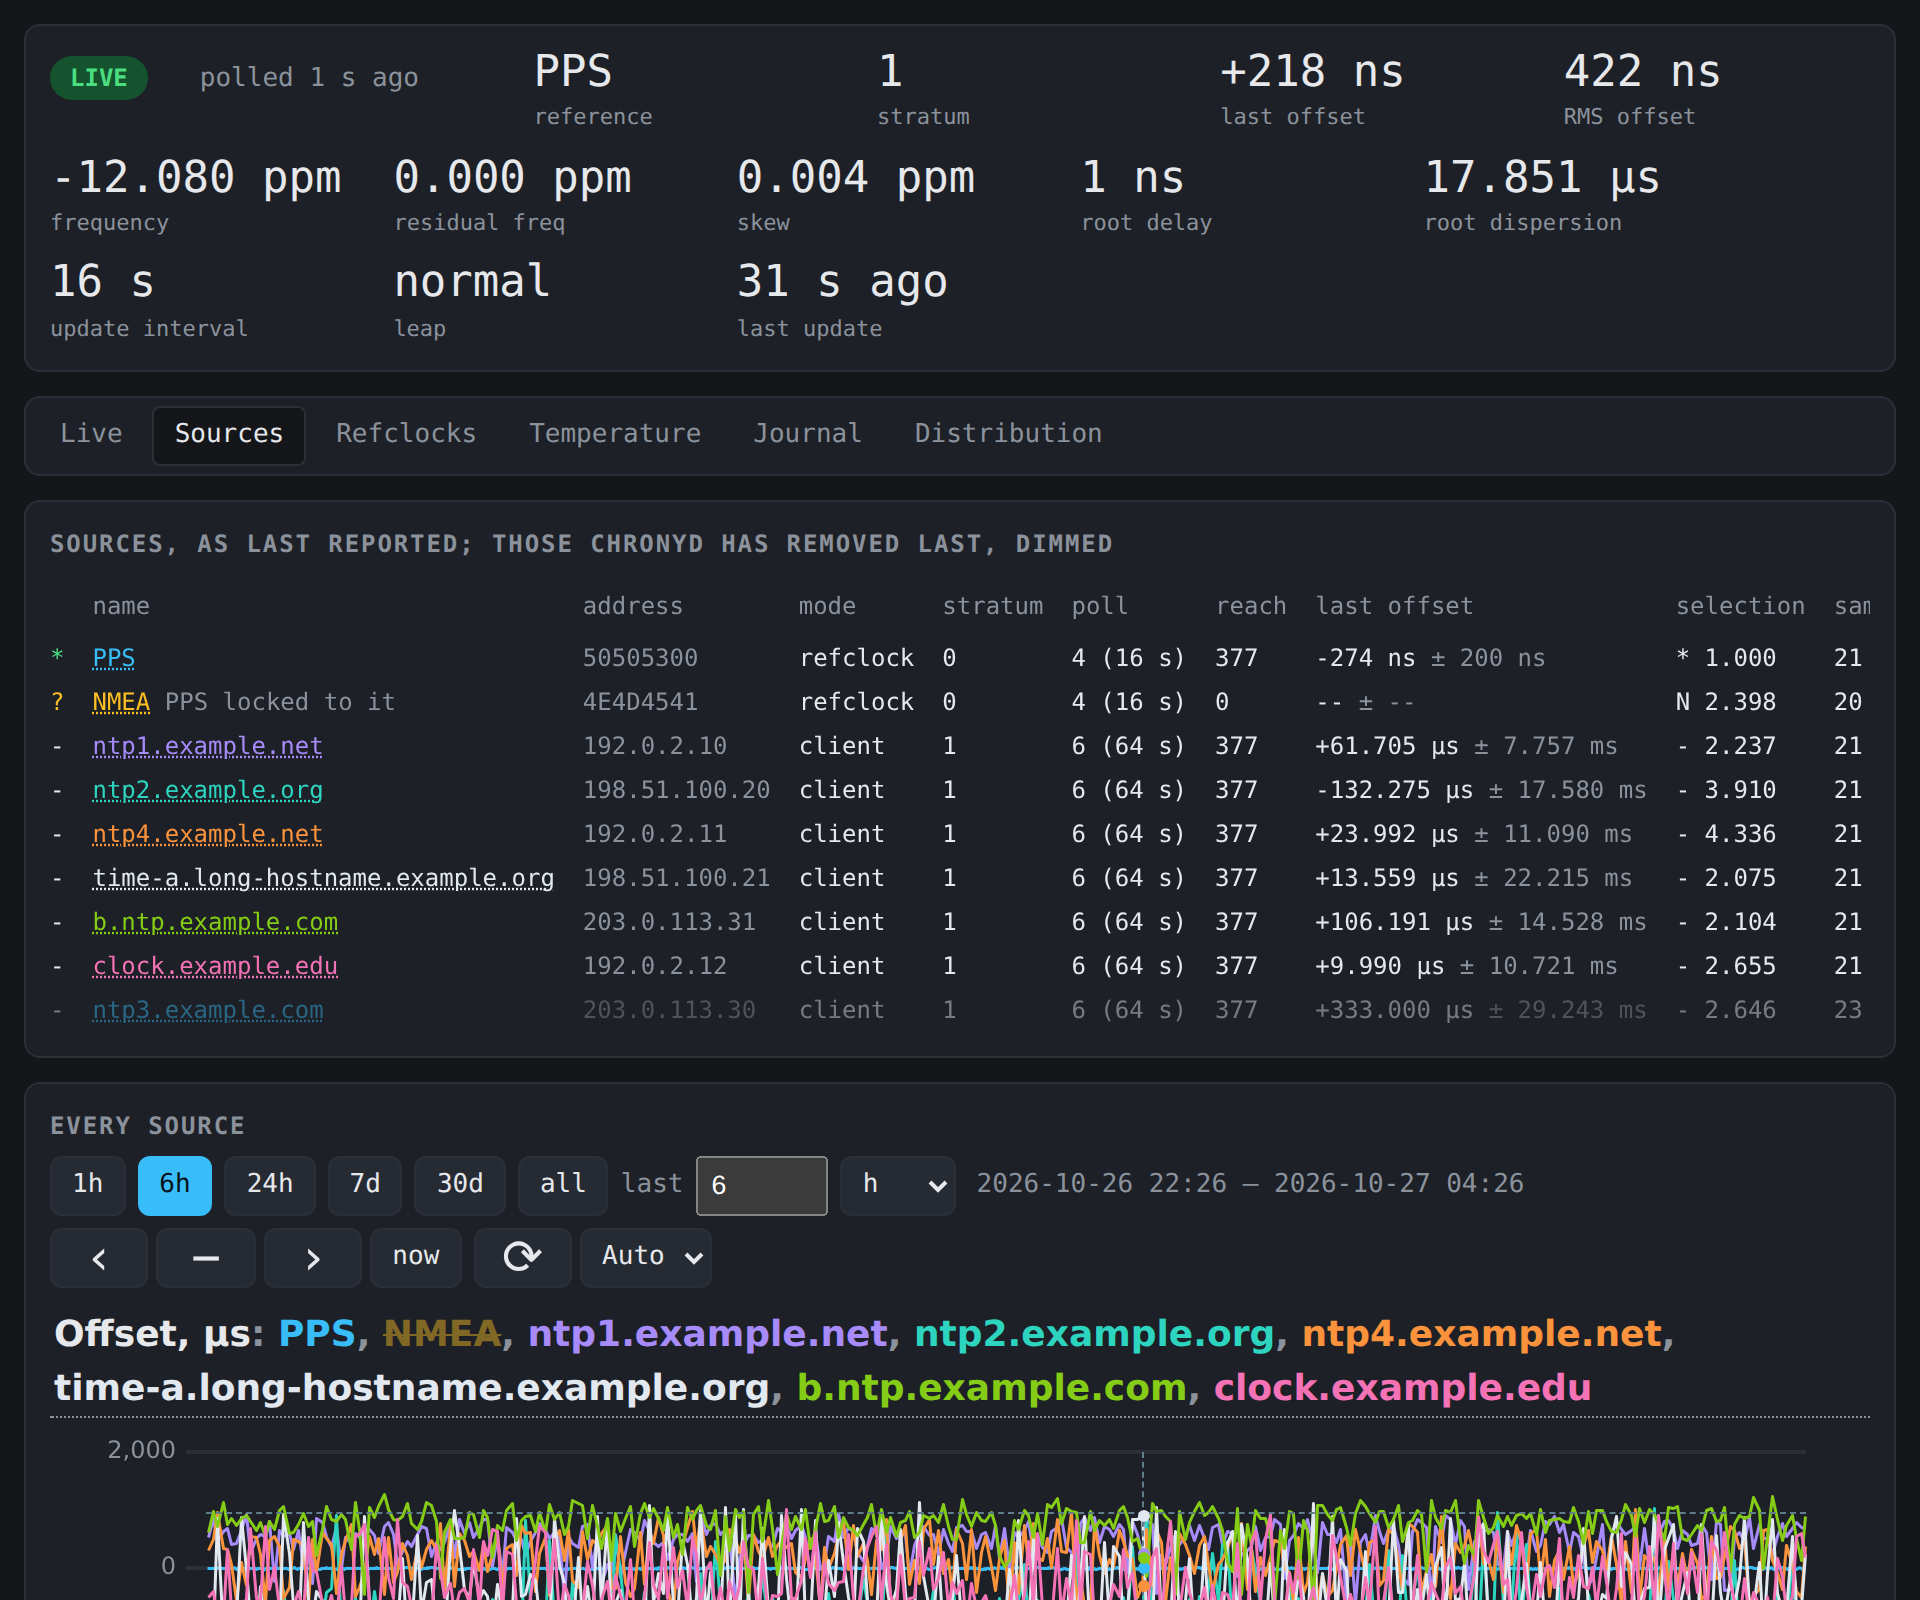
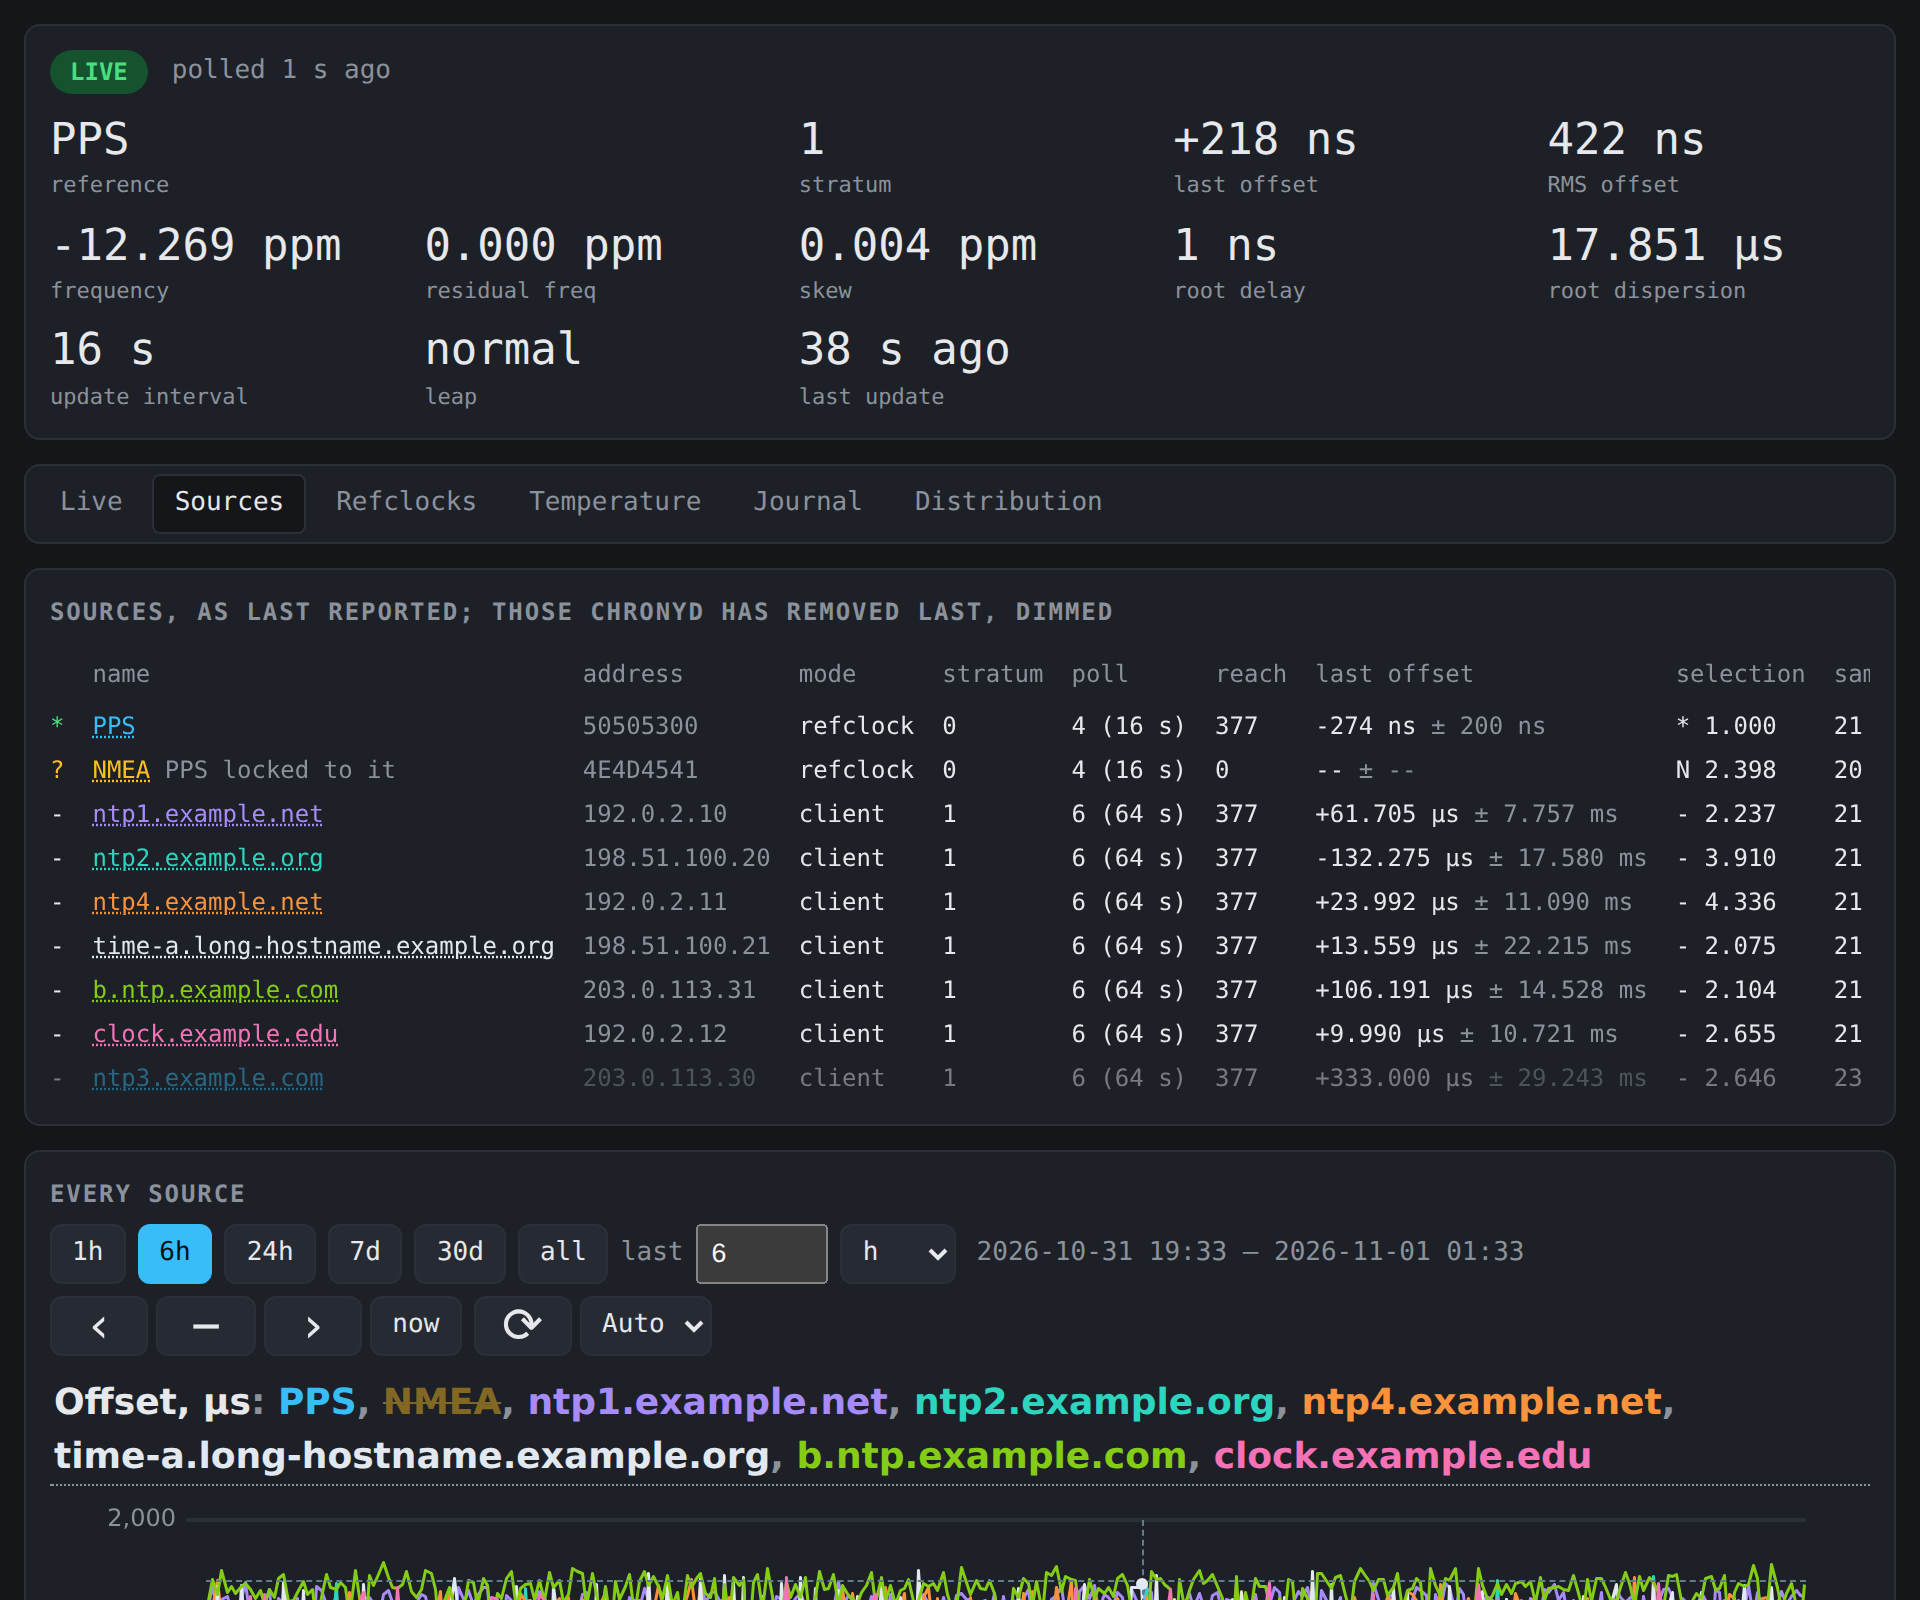
Show PPS, the receiver and the tempcomp fit in the README
The Refclocks shot is the PPS's charts and the receiver's satellites
over a PPS on a PTP pin flapping, then its pulses lost with the fix,
the pointer in the red span for its tip; the Temperature shot is the
scatter with both fits; new shots are the fit's dialog and the kiosk
of a host whose gpsd stopped.  The synthetic run gains the PPS's
flapping and loss, its spans long enough to see.  The screenshot
script takes a path from the data, clips to a run of charts or a
panel, rests the pointer, and clicks.

diff --git a/crates/chronymon-web/examples/synthetic.rs b/crates/chronymon-web/examples/synthetic.rs
@@ -7,7 +7,9 @@
 //! reference, along the way, a seventh server removed, and a
 //! `noselect` NMEA refclock whose samples stop,
 //! the PPS locked to it (`refclock ... lock NMEA`), as the daemon
-//! records chronyd's configuration; and chronyd's logs as
+//! records chronyd's configuration; a gpsd receiver losing its fix, and
+//! a PPS on a PTP clock's pin flapping and lost for a while; and
+//! chronyd's logs as
 //! the daemon reads them: refclock and tempcomp samples throughout,
 //! and tracking for some hours before the daemon started, for the
 //! charts to fill from.  Later, chronyd restarted with tracking.log on and a 64 s
@@ -154,7 +156,16 @@ const TEMPCOMP_NULL: &str = "0 0 0 0";
 const GNSS_EVERY: i64 = 4 * UPDATE_EVERY;
 const GNSS_DEVICE: &str = "/dev/ttyACM0";
 const FIX_LOST_AT: f64 = 0.3;
-const FIX_LOST_FOR: i64 = 10 * GNSS_EVERY;
+const FIX_LOST_FOR: i64 = 30 * GNSS_EVERY;
+/// A PPS watched on a PTP clock's pin, as `--pps /dev/ptp2` names it:
+/// flapping for a while, this far through the range, then its pulses
+/// lost with the fix, for so long, a pulse a second.
+const PPS_DEVICE: &str = "ptp2:0";
+const PPS_FLAPPING_AT: f64 = 0.27;
+const PPS_FLAPPING_FOR: i64 = 1800;
+const PPS_FLAPPING_LOSSES: i64 = 5;
+const PPS_FLAPPING_MISSED: i64 = 14;
+const PPS_LOST_FOR: i64 = 1200;
 /// Its satellites in view, and how many of them are used at most.
 const SATELLITES_SEEN: i64 = 14;
 const SATELLITES_USED: f64 = 9.0;
@@ -428,6 +439,26 @@ fn main() -> Result<(), Box<dyn Error>> {
             None,
             Some("synthetic"),
         )?;
+        let flapping = start + (span as f64 * PPS_FLAPPING_AT) as i64;
+        let pps_lost = start + (span as f64 * FIX_LOST_AT) as i64;
+        for (second, kind, detail) in [
+            (flapping, EventKind::PpsFlapping, PPS_DEVICE.to_owned()),
+            (
+                flapping + PPS_FLAPPING_FOR,
+                EventKind::PpsSteady,
+                format!(
+                    "{PPS_DEVICE}: {PPS_FLAPPING_MISSED} edges missed in {PPS_FLAPPING_LOSSES} losses"
+                ),
+            ),
+            (pps_lost, EventKind::PpsLost, PPS_DEVICE.to_owned()),
+            (
+                pps_lost + PPS_LOST_FOR,
+                EventKind::PpsBack,
+                format!("{PPS_DEVICE}: {PPS_LOST_FOR} edges missed"),
+            ),
+        ] {
+            batch.event(at(second).expect("in range"), kind, None, Some(&detail))?;
+        }
         // A placeholder for a name not resolved yet, as the daemon once
         // stored one (`IPADDR_ID` 1, in hex) and its removal: never shown.
         let placeholder = batch.source(

diff --git a/README.md b/README.md
@@ -7,11 +7,15 @@ them in a browser.
 
 | Sources | Refclocks |
 | - | - |
-| ![Sources: each source, and their offsets, delays and frequencies](docs/images/web-sources.png) | ![Refclocks: each refclock's offsets, from refclocks.log](docs/images/web-refclocks.png) |
-| **Temperature** | **Distribution** |
-| ![Temperature: tempcomp's temperature and compensation, and the frequency](docs/images/web-temperature.png) | ![Distribution: a histogram and percentiles of the offset](docs/images/web-distribution.png) |
+| ![Sources: each source, and their offsets, delays and frequencies](docs/images/web-sources.png) | ![Refclocks: a PPS on a PTP pin flapping, then its pulses and the GPS receiver's fix lost, shaded across its charts](docs/images/web-refclocks.png) |
+| **Temperature** | **Fitting tempcomp** |
+| ![Temperature: the clock's frequency against the temperature, with linear and quadratic fits](docs/images/web-temperature.png) | ![Fit tempcomp: linear and quadratic tempcomp lines for chrony.conf](docs/images/web-temperature-fit.png) |
+| **Distribution** | |
+| ![Distribution: a histogram and percentiles of the offset](docs/images/web-distribution.png) | |
 
 ![Kiosk: the clock's state and the time in large type, sources, events and a day of charts](docs/images/web-kiosk.png)
+
+![Kiosk with gpsd stopped: COASTING, gpsd down, the panel edged red](docs/images/web-kiosk-gpsd-stopped.png)
 
 Synthetic data; `make screenshots` retakes them.
 
